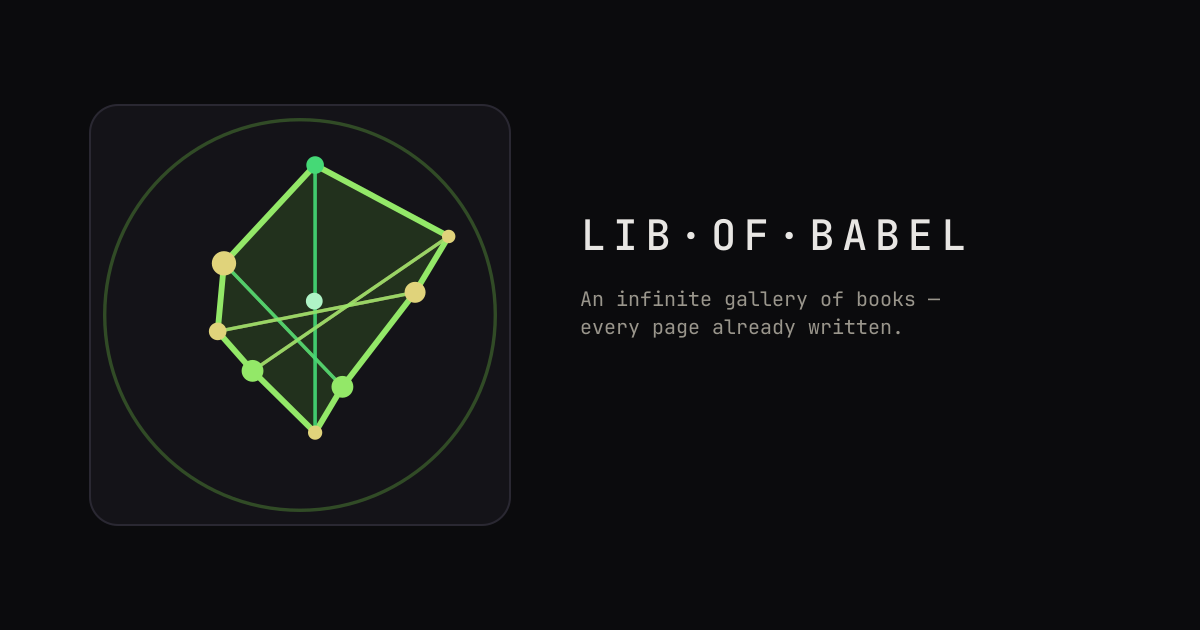
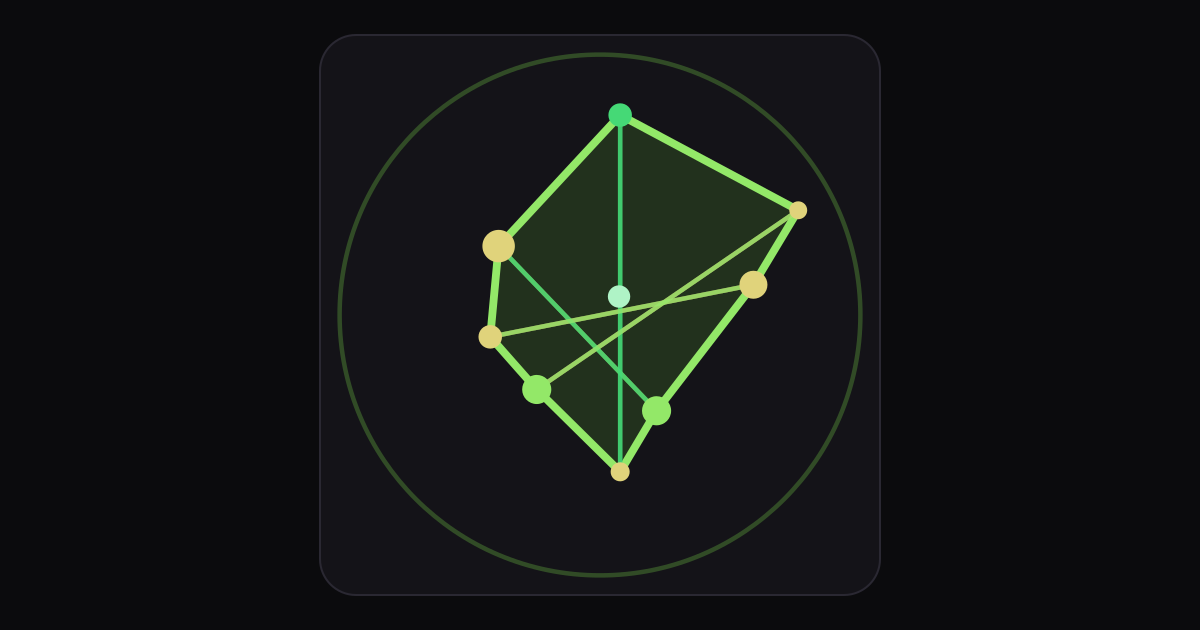
Split share cards into og.png / og-large.png and badge the README.
Primary Open Graph uses a sigil-fill thumbnail; Twitter large card gets the branded layout. README drops the Live line for site / CI / Pages / license badges.

diff --git a/web/index.html b/web/index.html
@@ -20,13 +20,16 @@
     <meta property="og:image" content="https://lib-of-babel.xyz/og.png" />
     <meta property="og:image:width" content="1200" />
     <meta property="og:image:height" content="630" />
+    <meta property="og:image:alt" content="Gallery sigil for LIB·OF·BABEL" />
+    <!-- Twitter large card can afford the branded wide layout; Open Graph (Slack/iMessage) uses og.png — sigil-fill for small thumbnails. -->
     <meta name="twitter:card" content="summary_large_image" />
     <meta name="twitter:title" content="LIB·OF·BABEL" />
     <meta
       name="twitter:description"
       content="An infinite gallery of books — every page already written. Wander rooms, open volumes, export Babelgrams."
     />
-    <meta name="twitter:image" content="https://lib-of-babel.xyz/og.png" />
+    <meta name="twitter:image" content="https://lib-of-babel.xyz/og-large.png" />
+    <meta name="twitter:image:alt" content="LIB·OF·BABEL — infinite gallery of books" />
     <!-- SVG link is swapped to a data-URI with the gallery accent after boot; files stay as cold fallbacks. -->
     <link id="faviconSvg" rel="icon" href="favicon.svg" type="image/svg+xml" />
     <link rel="icon" href="favicon.png" type="image/png" sizes="32x32" />

diff --git a/README.md b/README.md
@@ -1,5 +1,10 @@
 # lib-of-babel
 
+[![Site](https://img.shields.io/badge/site-lib--of--babel.xyz-c9a227?style=flat-square&labelColor=0b0b0d)](https://lib-of-babel.xyz)
+[![CI](https://github.com/Latka-Industries/lib-of-babel/actions/workflows/check.yml/badge.svg)](https://github.com/Latka-Industries/lib-of-babel/actions/workflows/check.yml)
+[![Pages](https://github.com/Latka-Industries/lib-of-babel/actions/workflows/deploy.yml/badge.svg)](https://github.com/Latka-Industries/lib-of-babel/actions/workflows/deploy.yml)
+[![License: GPL v3](https://img.shields.io/badge/license-GPLv3-blue?style=flat-square)](LICENSE)
+
 **A living, walkable Library of Babel.** Start in a random hexagonal gallery, read the
 books, take a hallway or a staircase, and keep walking. Every gallery is generated
 deterministically from its coordinate — infinite space, almost nothing stored. What you
@@ -8,8 +13,6 @@ keep is the **journey**: the path and a cryptographic fingerprint of each room.
 ![A grid of per-gallery sigils — generative emblems drawn deterministically from each gallery's hash](assets/sigils.svg)
 
 <sub>Each gallery has a **sigil** from its room hash. Same coordinate + universe → same sigil (alphabet is a lens and does not change it). The 24 above are real default-universe galleries — see [`assets/sigils.json`](assets/sigils.json) (`node scripts/make-sigil-sheet.mjs` to redraw).</sub>
-
-Live: [lib-of-babel.xyz](https://lib-of-babel.xyz) · share cards use a static Open Graph image (`web/og.png`; regenerate with `node scripts/make-og.mjs`).
 
 ## Quick start
 

diff --git a/docs/design.md b/docs/design.md
@@ -28,7 +28,7 @@ Canonical dimensions:
 | **Alphabet** | View lens (`&a=` in permalinks; soft cap 4096 cells). DE/NL lenses also switch UI locale. See [alphabets.md](alphabets.md). |
 | **Colour map** | Glyphs → OKLCH: letters on an accent-seeded wheel, punct/digits muted opposite, space near-black. |
 | **Universe** | Named seed (`""` = 0) as outermost axis; WASM global; `&u=` + exports. |
-| **Permalinks** | Room: compact `(z, n)` (`c…` when large) + `u` / `a` / `b` / `p` / `img=1` / `gv` / `h`. Search: `#q=&find=content|title` (re-locate on boot). Mosaic / Babelgram: `#bo=` (+ optional `#be=` print) via IndexedDB — local handoff only; cross-device reopen is Babelgram PNG. In-app flag guide: About → **url**. Site-wide Open Graph card (`og.png`) is static — same preview for every hash URL. |
+| **Permalinks** | Room: compact `(z, n)` (`c…` when large) + `u` / `a` / `b` / `p` / `img=1` / `gv` / `h`. Search: `#q=&find=content|title` (re-locate on boot). Mosaic / Babelgram: `#bo=` (+ optional `#be=` print) via IndexedDB — local handoff only; cross-device reopen is Babelgram PNG. In-app flag guide: About → **url**. Site-wide share cards are static (`og.png` sigil-fill for Open Graph; `og-large.png` branded for Twitter) — same for every hash URL. |
 | **Stack** | Rust → WASM core + static web frontend (GitHub Pages). |
 | **Persistence** | IndexedDB trail (+ brief `&bo=` / `&be=` handoffs); JSON export of path + per-node hashes. |
 

diff --git a/docs/development.md b/docs/development.md
@@ -67,7 +67,7 @@ Babelgram **go there** may also add short-lived `&be=` for the print flat. Param
 - In-app guide: brand **LIB·OF·BABEL**, footer **? · Help**, or keyboard **?** (first visit opens About once)
 - About tabs: **overview → wander → engines → scale → alphabets → books → search → url → more** (engines hosts dual maps + Mbit UI; **scale** is the band table). Wander deep-links via accent chips (**ALPHABETS** / **BOOKS** / **SEARCH** / **URL** / **SCALE**). Control names use panel chips (`.ui`); search/dialog tab names use `.ui.ui-tab` (caps); About section jumpers stay `button.about-goto-tab`. Megabit as a unit in body/HTML copy uses `.unit-mbit` (small-caps); section titles stay plain `MBIT` / `MBIT range`. Footer/tooltips stay plain text (`≈6.4 Mbit`) because they use `title` / `textContent`. The asset sheet discovers tokens + chip kinds from CSS / locale recipes.
 - Mbit rooms: footer `12345…67890`; hover = scientific + bit width; click **gallery (z, n)** → notice with Axes + **Digits (z, n)**. About → scale table **Comparison** column is analogy only (not “digit count equals book length”). Scalar cells show `≈N` + `.unit-mbit` then `10^…` on a second line.
-- Link previews (GitHub Pages): static Open Graph / Twitter meta in `web/index.html` + `web/og.png` (1200×630, first README mat sigil). Regenerate with `node scripts/make-og.mjs` (needs ImageMagick). Same card for every permalink — crawlers do not run the SPA.
+- Link previews (GitHub Pages): static Open Graph / Twitter meta in `web/index.html`. Two canvases from `node scripts/make-og.mjs` (needs ImageMagick): **`og.png`** — sigil fills the frame (Open Graph / Slack / iMessage thumbnails); **`og-large.png`** — sigil + wordmark + tagline (`twitter:image`). Crawlers do not pick by preview size; this is a platform split, not responsive media.
 - Header **actions…** and book **save…** are vanilla dropdowns (`web/js/chrome/dropdown.js`), not native `<select>`
 - Search modes shipped in UI: **text** (content ≤ one page / 3200 cells; title ≤ 24), **photo** (alphabet mosaic ranked by rms / mae / corr; letters or luma ramp; this-gallery + hit-gallery palette strips), **Babelgram** (exact-size stamped book-image PNG → verify seal+hash → locate; metrics + **go there** / copy link gated on verify)
 - Babelgram stamp/verify: `web/js/lib/png-babel.js` (`lob:babel` v3 `seal` + `h`); save seals from on-screen pixels + current room accent (`book.js`); locate/UI in `mosaic-search.js`. Go/copy stash letter `flat` in `&bo=` (and `&be=` cross-universe). Compact axes shorten in download filenames (`c…`). Round-trip: `node scripts/test-png-babel.mjs`